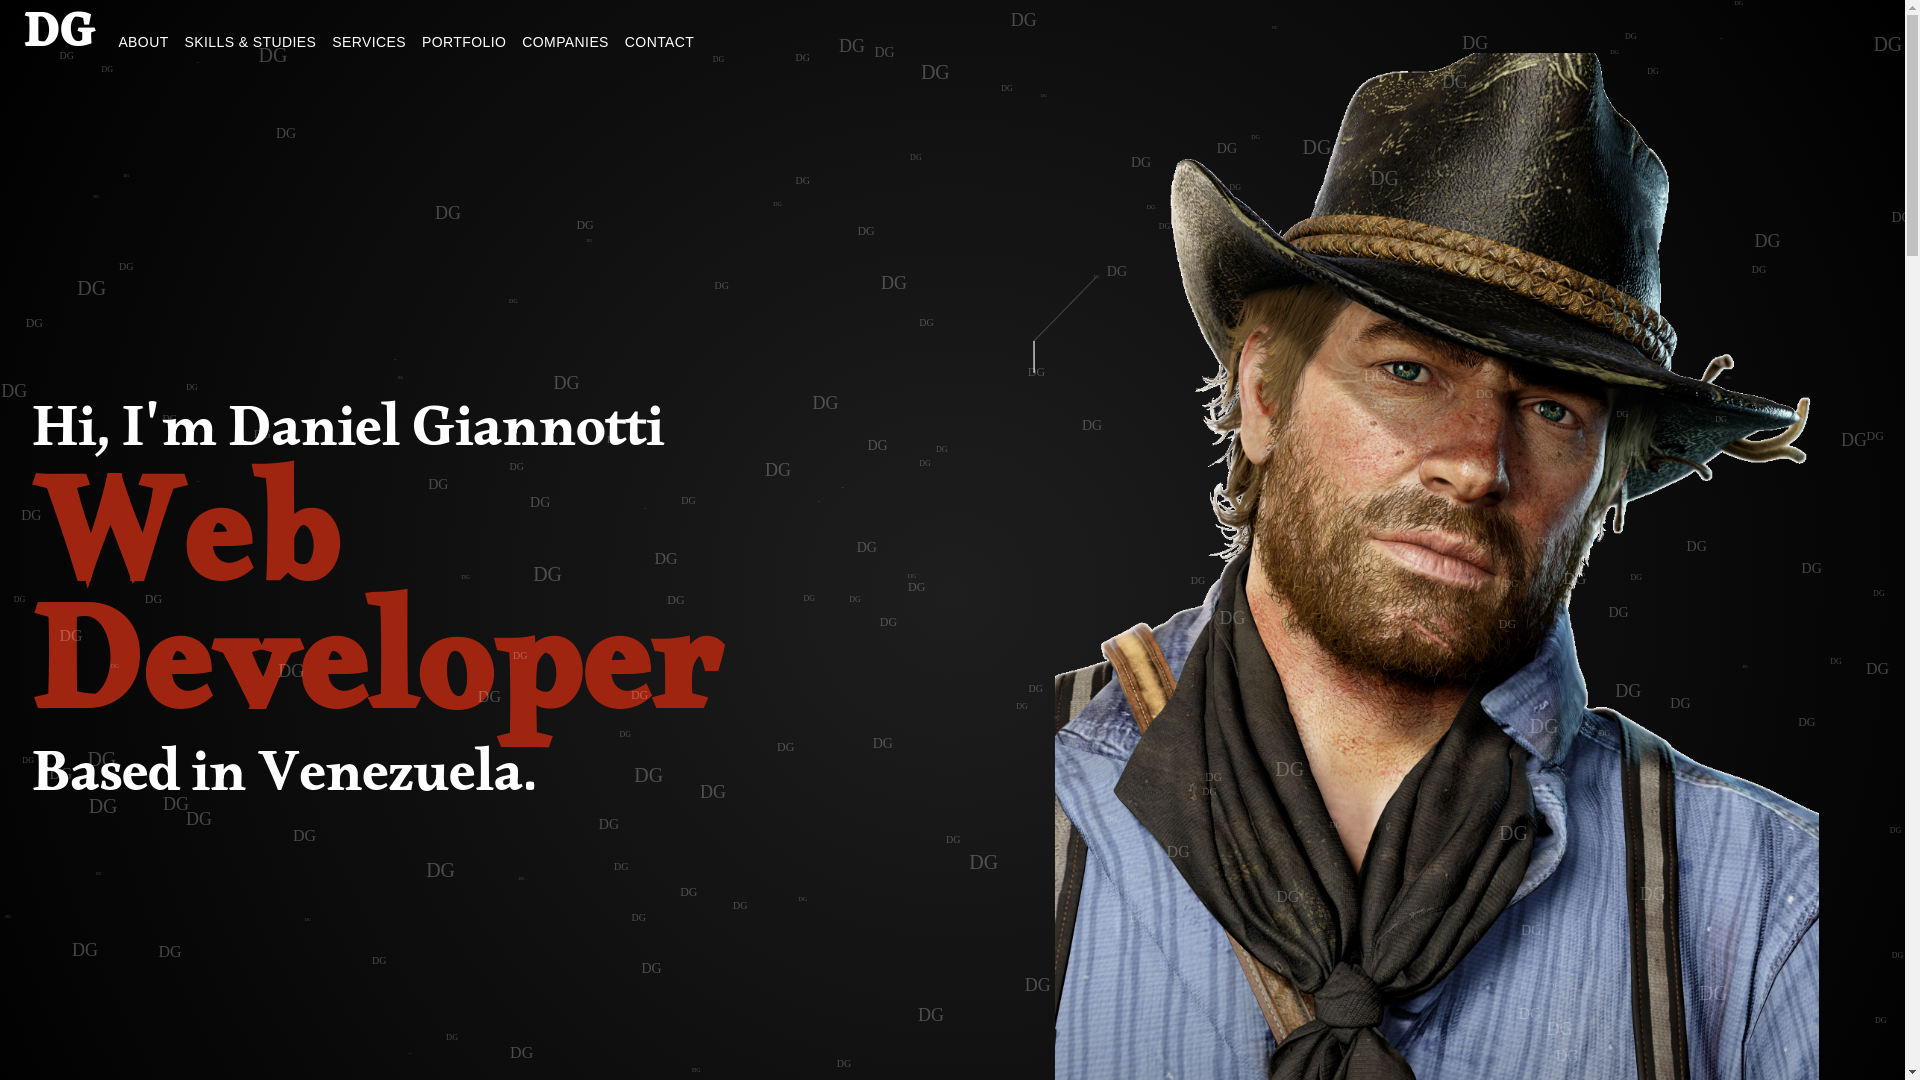
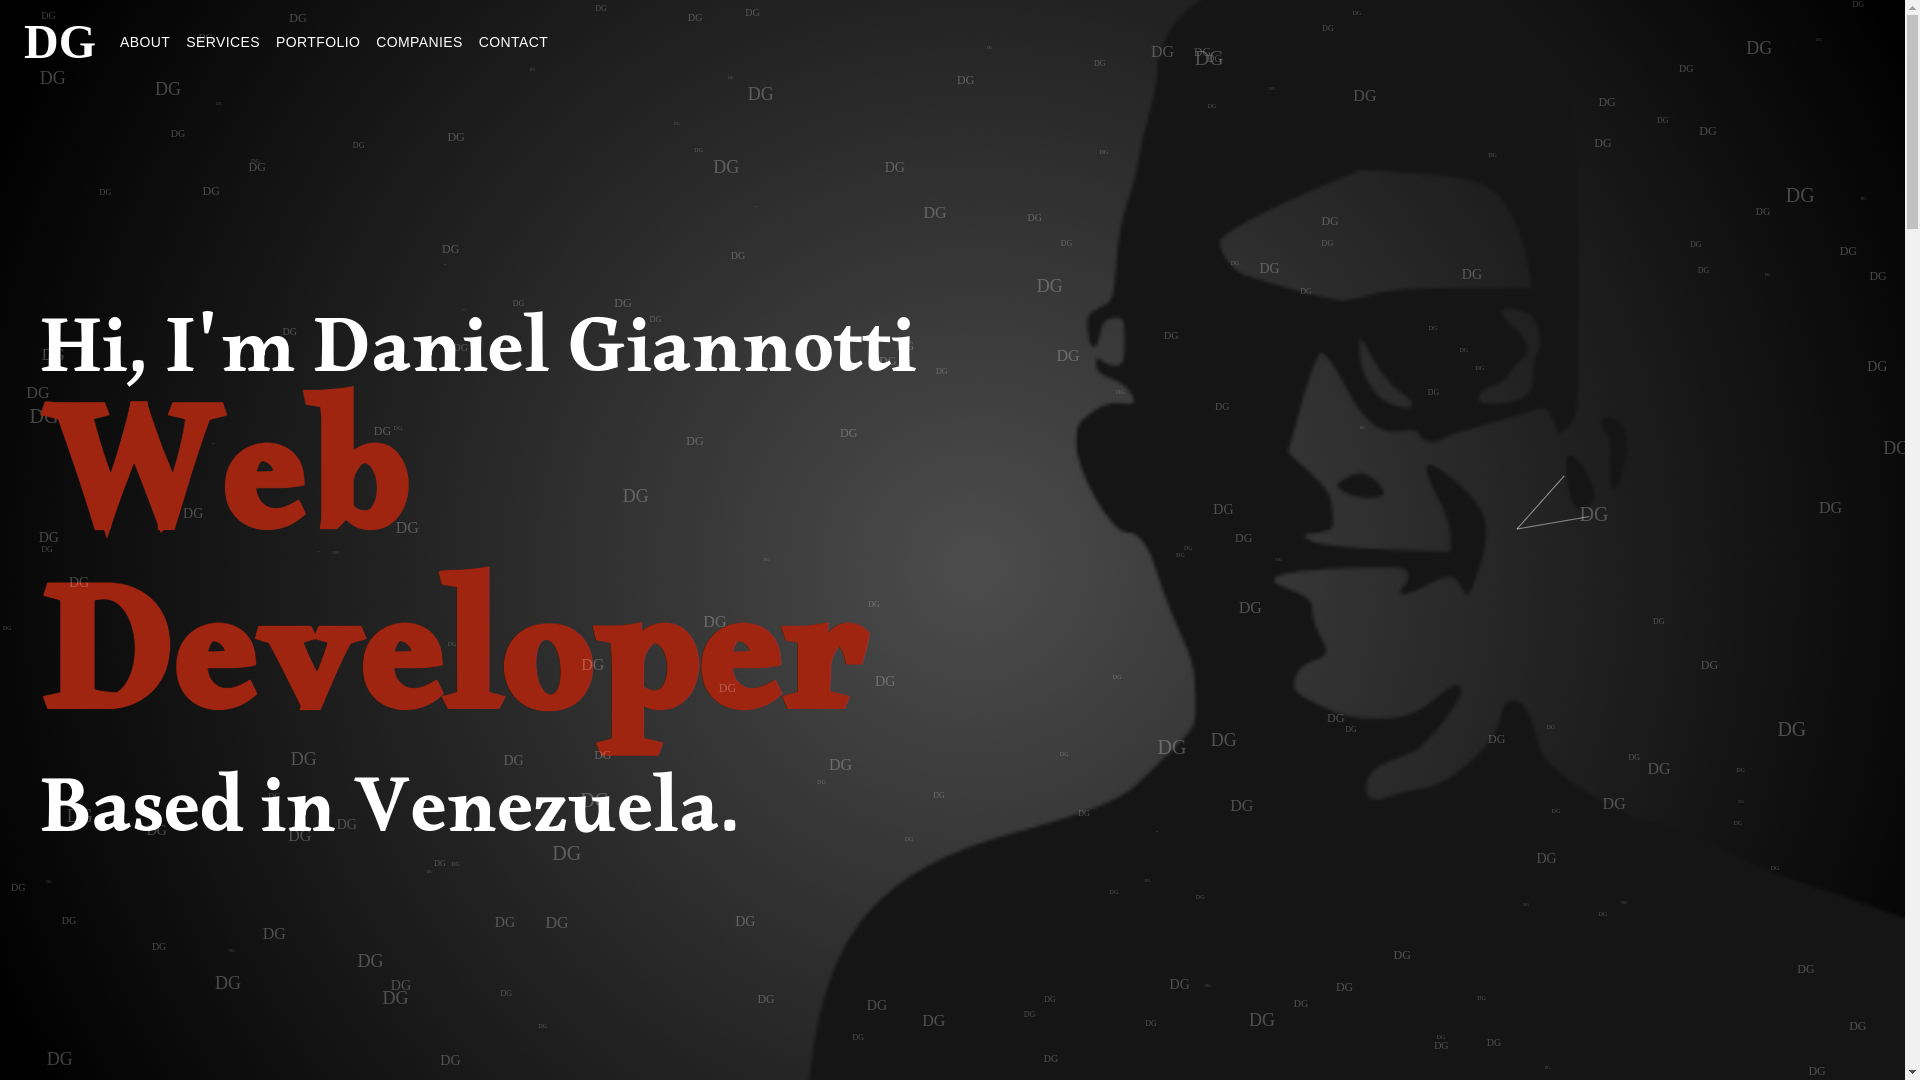
I'm done

diff --git a/src/components/Navbar.jsx b/src/components/Navbar.jsx
@@ -3,12 +3,16 @@ import Box from '@mui/material/Box';
 import Toolbar from '@mui/material/Toolbar';
 import IconButton from '@mui/material/IconButton';
 import Typography from '@mui/material/Typography';
-import Menu from '@mui/material/Menu';
 import MenuIcon from '@mui/icons-material/Menu';
 import Button from '@mui/material/Button';
-import MenuItem from '@mui/material/MenuItem';
 import {useState} from 'react';
-
+import * as React from 'react';
+import Divider from '@mui/material/Divider';
+import Drawer from '@mui/material/Drawer';
+import List from '@mui/material/List';
+import ListItem from '@mui/material/ListItem';
+import ListItemButton from '@mui/material/ListItemButton';
+import ListItemText from '@mui/material/ListItemText';
 
 const pages = [
     {id: 'about', value:'About'}, 
@@ -19,15 +23,15 @@ const pages = [
 ]
 
 const Navbar = () => {
-    const [anchorElNav, setAnchorElNav] = useState(null);
+    const [anchorElNav, setAnchorElNav] = useState(false);
     const [changeBG, setChangeBG] = useState(false);
 
-    const handleOpenNavMenu = (event) => {
-        setAnchorElNav(event.currentTarget);
+    const handleOpenNavMenu = () => {
+        setAnchorElNav(true);
     };
 
     const handleCloseNavMenu = () => {
-        setAnchorElNav(null);
+        setAnchorElNav(false);
     };
 
     const handlePageSeleted = (event, id) => {
@@ -36,9 +40,7 @@ const Navbar = () => {
         );
 
         if (anchor) {
-            anchor.scrollIntoView({
-                block: 'center',
-            });
+            anchor.scrollIntoView();
         }
     };
 
@@ -92,32 +94,36 @@ const Navbar = () => {
                         >
                             <MenuIcon />
                         </IconButton>
-                        <Menu
-                            id="menu-appbar"
-                            anchorEl={anchorElNav}
-                            anchorOrigin={{
-                                vertical: 'bottom',
-                                horizontal: 'left',
-                            }}
-                            keepMounted
-                            transformOrigin={{
-                                vertical: 'top',
-                                horizontal: 'left',
-                            }}
-                            open={Boolean(anchorElNav)}
-                            onClose={handleCloseNavMenu}
-                            sx={{
-                                display: { xs: 'flex', md: 'none' }
-                            }}
-                        >
-                            {pages.map((page) => (
-                                <MenuItem key={page.value+page.id} sx={{ 
-
-                                }}>
-                                    <Typography textAlign="center" onClick={handlePageSeleted}>{page.value}</Typography>
-                                </MenuItem>
-                            ))}
-                        </Menu>
+                        <Box component="nav">
+                            <Drawer
+                                variant="temporary"
+                                open={anchorElNav}
+                                onClose={handleCloseNavMenu}
+                                ModalProps={{
+                                    keepMounted: true, // Better open performance on mobile.
+                                }}
+                                sx={{
+                                    display: { xs: 'block', sm: 'none' },
+                                    '& .MuiDrawer-paper': { boxSizing: 'border-box', width: '75%', bgcolor: 'rgb(30,30,30)', color: 'white' },
+                                }}
+                            >
+                                <Box onClick={handleCloseNavMenu} sx={{ textAlign: 'center' }}>
+                                    <Typography variant="h4" fontFamily='Roboto' sx={{ my: 2 }}>
+                                        DG
+                                    </Typography>
+                                    <Divider sx={{ bgcolor: 'white'}}/>
+                                    <List>
+                                        {pages.map((page) => (
+                                            <ListItem key={page.id} disablePadding>
+                                                <ListItemButton sx={{ textAlign: 'center', '&:hover': { bgcolor: 'rgb(50,50,50)' } }}>
+                                                    <ListItemText onClick={(e) => handlePageSeleted(e, page.id)} primary={page.value} />
+                                                </ListItemButton>
+                                            </ListItem>
+                                        ))}
+                                    </List>
+                                </Box>
+                            </Drawer>
+                        </Box>
                     </Box>
                     <Typography
                         variant="h4"

diff --git a/src/components/Certificates.jsx b/src/components/Certificates.jsx
@@ -2,46 +2,51 @@ import { Box, Typography } from "@mui/material";
 import { certificates } from '../utils/Certificates.jsx'
 import { SiUdemy } from 'react-icons/si'
 
-const Certificates = ({ openInNewTab }) => (certificates.map( certificate => 
-    <Box
-        sx={{
-            display: 'flex',
-            flexWrap: 'wrap',
-            justifyContent: 'center',
-            cursor: 'pointer',
-            width: { xs: '60%', sm: '40%', md: '30%' },
-            '&:hover':{
-                transform: 'scale3d(1.2, 1.2, 1)',
-                transition: 'transform 1s'
-            }
-        }}
-        onClick={() => openInNewTab(certificate.url)}>
-        <Box display='flex' textAlign='center'>
-            <Box width='80%'>
-                <Typography> 
-                    {certificate.name} 
-                </Typography>
+const Certificates = ({ openInNewTab }) => (certificates.length > 1 
+    ? (certificates.map( certificate => 
+        <Box
+            sx={{
+                display: 'flex',
+                flexWrap: 'wrap',
+                justifyContent: 'center',
+                cursor: 'pointer',
+                width: { xs: '60%', sm: '40%', md: '30%' },
+                '&:hover':{
+                    transform: 'scale3d(1.2, 1.2, 1)',
+                    transition: 'transform 1s'
+                }
+            }}
+            onClick={() => openInNewTab(certificate.url)}>
+            <Box display='flex' textAlign='center'>
+                <Box width='80%'>
+                    <Typography> 
+                        {certificate.name} 
+                    </Typography>
+                </Box>
+                {certificate.platform === 'udemy' && (
+                    <Box>
+                        <SiUdemy style={{ 
+                            fontSize: 45, 
+                        }}/>
+                    </Box>)
+                }
             </Box>
-            {certificate.platform === 'udemy' && (
-                <Box>
-                    <SiUdemy style={{ 
-                        fontSize: 45, 
-                    }}/>
-                </Box>)
-            }
+            <Box fullWidth>
+                <Box
+                    component="img"
+                    src={certificate.img}
+                    alt={certificate.name.toLowerCase().trim()}
+                    sx={{
+                        height: { xs: 100, sm: 150, md: 200 },
+                        borderRadius: 4,
+                    }}
+                />
+            </Box>
         </Box>
-        <Box fullWidth>
-            <Box
-                component="img"
-                src={certificate.img}
-                alt={certificate.name.toLowerCase().trim()}
-                sx={{
-                    height: { xs: 100, sm: 150, md: 200 },
-                    borderRadius: 4,
-                }}
-            />
-        </Box>
-    </Box>
-))                     
+    )) 
+    : (<Typography variant='h4'> 
+        No certificates yet. 
+    </Typography>) 
+)                     
 
 export default Certificates

diff --git a/src/utils/Certificates.jsx b/src/utils/Certificates.jsx
@@ -1,8 +1,12 @@
 export const certificates = [
-    {name: 'MERN eCommerce From Scratch', platform: 'udemy', img: 'https://udemy-certificate.s3.amazonaws.com/image/UC-10494a72-dd6e-49f2-8b35-b069fa31aae6.jpg?v=1614522421000', url: 'https://ude.my/UC-10494a72-dd6e-49f2-8b35-b069fa31aae6'},
-    {name: 'MERN eCommerce From Scratch', platform: 'udemy', img: 'https://udemy-certificate.s3.amazonaws.com/image/UC-10494a72-dd6e-49f2-8b35-b069fa31aae6.jpg?v=1614522421000', url: 'https://ude.my/UC-10494a72-dd6e-49f2-8b35-b069fa31aae6'},
-    {name: 'MERN eCommerce From Scratch', platform: 'udemy', img: 'https://udemy-certificate.s3.amazonaws.com/image/UC-10494a72-dd6e-49f2-8b35-b069fa31aae6.jpg?v=1614522421000', url: 'https://ude.my/UC-10494a72-dd6e-49f2-8b35-b069fa31aae6'},
-    {name: 'MERN eCommerce From Scratch', platform: 'udemy', img: 'https://udemy-certificate.s3.amazonaws.com/image/UC-10494a72-dd6e-49f2-8b35-b069fa31aae6.jpg?v=1614522421000', url: 'https://ude.my/UC-10494a72-dd6e-49f2-8b35-b069fa31aae6'},
-    {name: 'MERN eCommerce From Scratch', platform: 'udemy', img: 'https://udemy-certificate.s3.amazonaws.com/image/UC-10494a72-dd6e-49f2-8b35-b069fa31aae6.jpg?v=1614522421000', url: 'https://ude.my/UC-10494a72-dd6e-49f2-8b35-b069fa31aae6'},
-    {name: 'MERN eCommerce From Scratch', platform: 'udemy', img: 'https://udemy-certificate.s3.amazonaws.com/image/UC-10494a72-dd6e-49f2-8b35-b069fa31aae6.jpg?v=1614522421000', url: 'https://ude.my/UC-10494a72-dd6e-49f2-8b35-b069fa31aae6'},
+
 ]
+
+//export const certificates = [
+    //{name: 'MERN eCommerce From Scratch', platform: 'udemy', img: 'https://udemy-certificate.s3.amazonaws.com/image/UC-10494a72-dd6e-49f2-8b35-b069fa31aae6.jpg?v=1614522421000', url: 'https://ude.my/UC-10494a72-dd6e-49f2-8b35-b069fa31aae6'},
+    //{name: 'MERN eCommerce From Scratch', platform: 'udemy', img: 'https://udemy-certificate.s3.amazonaws.com/image/UC-10494a72-dd6e-49f2-8b35-b069fa31aae6.jpg?v=1614522421000', url: 'https://ude.my/UC-10494a72-dd6e-49f2-8b35-b069fa31aae6'},
+    //{name: 'MERN eCommerce From Scratch', platform: 'udemy', img: 'https://udemy-certificate.s3.amazonaws.com/image/UC-10494a72-dd6e-49f2-8b35-b069fa31aae6.jpg?v=1614522421000', url: 'https://ude.my/UC-10494a72-dd6e-49f2-8b35-b069fa31aae6'},
+    //{name: 'MERN eCommerce From Scratch', platform: 'udemy', img: 'https://udemy-certificate.s3.amazonaws.com/image/UC-10494a72-dd6e-49f2-8b35-b069fa31aae6.jpg?v=1614522421000', url: 'https://ude.my/UC-10494a72-dd6e-49f2-8b35-b069fa31aae6'},
+    //{name: 'MERN eCommerce From Scratch', platform: 'udemy', img: 'https://udemy-certificate.s3.amazonaws.com/image/UC-10494a72-dd6e-49f2-8b35-b069fa31aae6.jpg?v=1614522421000', url: 'https://ude.my/UC-10494a72-dd6e-49f2-8b35-b069fa31aae6'},
+    //{name: 'MERN eCommerce From Scratch', platform: 'udemy', img: 'https://udemy-certificate.s3.amazonaws.com/image/UC-10494a72-dd6e-49f2-8b35-b069fa31aae6.jpg?v=1614522421000', url: 'https://ude.my/UC-10494a72-dd6e-49f2-8b35-b069fa31aae6'},
+//]

diff --git a/src/components/HeroBanner.jsx b/src/components/HeroBanner.jsx
@@ -2,9 +2,10 @@ import React from 'react'
 import { useCallback } from "react";
 import Particles from "react-tsparticles";
 import { loadFull } from "tsparticles";
-import { Box, Grid, Typography } from "@mui/material";
+import { Box, Typography } from "@mui/material";
 import { options } from '../utils/ParticlesOptions.jsx';
 import Carousel from 'react-material-ui-carousel'
+import bg from '../assets/img/bg.png';
 
 const HeroBanner = () => {
     const particlesInit = useCallback(async (engine) => {
@@ -33,8 +34,11 @@ const HeroBanner = () => {
             sx={{
                 justifyContent: { xs: 'center', md: 'flex-start' },
                 height: { xs: "100vh", sm: "100vh", md: "110vh" },
-                background: `radial-gradient(circle, rgba(30,30,30,1) 0%, rgba(0,0,0,1) 100%)`,
-                color: 'white',
+                backgroundImage: `url(${bg})`,
+                backgroundRepeat: "no-repeat",
+                backgroundPosition: "center center",
+                backgroundSize: "cover",
+                //background: `radial-gradient(circle, rgba(30,30,30,1) 0%, rgba(0,0,0,1) 100%)`,
             }}
         >
             <Particles 

diff --git a/src/utils/ProjectsList.jsx b/src/utils/ProjectsList.jsx
@@ -1,5 +1,4 @@
 import minstock from '../assets/img/minstock.jpg'
-import cgianns from '../assets/img/cgianns.png'
 import telon from '../assets/img/telon.png'
 import datarock from '../assets/img/datarock.png'
 import barbass from '../assets/img/barbass.png'
@@ -7,7 +6,6 @@ import portfolio from '../assets/img/portfolio.png'
 
 export const projects = [
     {name: 'Min\'Stock', type: 'E-commerce', topTools: 'Laravel', tools: 'Laravel, JQuery, HTML5, CSS3, Bootstrap', url: 'https://minstocks.com', img: minstock},
-    {name: 'Cgianns Technology', type: 'Single Page Application', topTools: 'React', tools: 'ReactJs, Material UI', url: 'https://cgiannstechnology.com', img: cgianns},
     {name: 'Telón de Arena', type: 'Module/Plugin', topTools: 'Drupal', tools: 'Drupal', url: 'https://www.telondearena.org/', img: telon},
     {name: 'Datarock', type: 'Web Aplication', topTools: 'Laravel', tools: 'Laravel, JQuery, HTML5, CSS3, Bootstrap', url: 'https://www.datarock.com.co/', img: datarock},
     {name: 'Barbas\'S', type: 'Web Catalog and Blog', topTools: 'Wordpress', tools: 'Wordpress', url: 'https://barbassoficial.com/', img: barbass},

diff --git a/src/layouts/AboutLayout.jsx b/src/layouts/AboutLayout.jsx
@@ -25,6 +25,7 @@ const AboutLayout = () => {
 
     return (
         <Box 
+            id='about'
             display='flex'
             sx={{
                 background: `rgba(50,50,50,1)`,
@@ -82,7 +83,6 @@ const AboutLayout = () => {
                 }}
             >
                 <Tabs 
-                    id='about'
                     centered
                     value={tabIndex} 
                     textColor='inherit'

diff --git a/src/layouts/PortfolioLayout.jsx b/src/layouts/PortfolioLayout.jsx
@@ -54,7 +54,6 @@ const PortfolioLayout = () => {
                         height: {xs: 250, sm: 300, md: 350},
                         borderRadius: 10, 
                         m: (hover && cardSelected === index) ? 10 : 5,
-                        m: 5, 
                         position: "relative",
                         cursor: 'pointer',
                         zIndex: (hover && cardSelected === index) ? 100 : 0,

diff --git a/src/layouts/CompaniesLayout.jsx b/src/layouts/CompaniesLayout.jsx
@@ -1,5 +1,4 @@
-import { Box, Grid, Typography, Card, CardMedia, CardContent } from "@mui/material";
-import {useState} from "react";
+import { Box, Grid } from "@mui/material";
 import { companies } from '../utils/CompaniesList'
 import Title from '../components/Title.jsx'
 import Carousel from 'react-material-ui-carousel'
